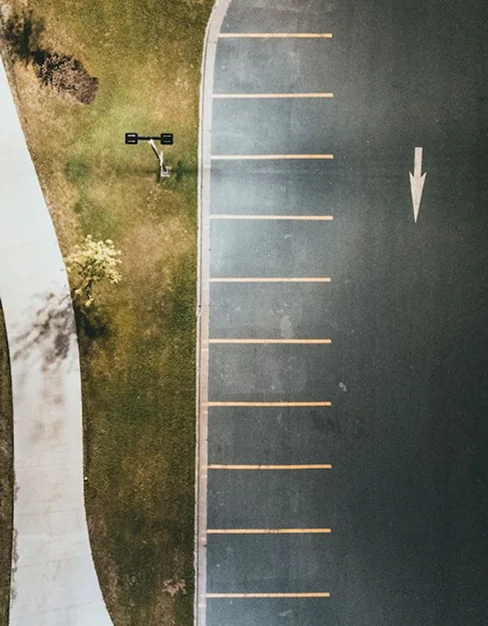
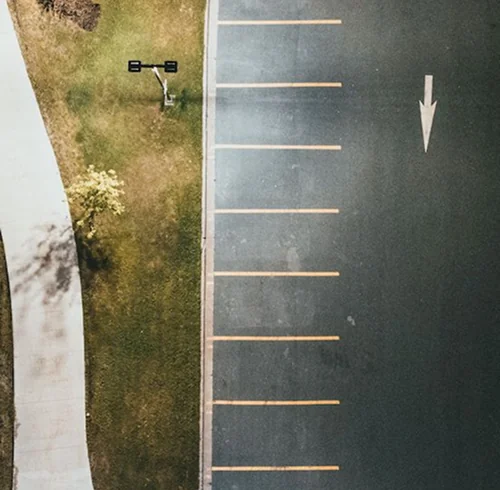
Blog thumbs

diff --git a/src/components/utils/blog-list-item/BlogListItem.scss b/src/components/utils/blog-list-item/BlogListItem.scss
@@ -25,7 +25,7 @@
         }
 
         .bg {
-            transform: scale(0.95);
+            transform: scale(0.952);
             opacity: 1;
 
             img {
@@ -76,6 +76,7 @@
 }
 
 .bg {
+    height: calc(100% - 140px);
     opacity: 0.6;
 
     @include t.tx((transform, opacity));
@@ -99,6 +100,20 @@
     padding: v.space('md') v.space('sm');
 
     @include t.tx((transform));
+
+    @include mix.respond(lg) {
+        min-height: 240px;
+    }
+    @include mix.respond(md) {
+        min-height: 200px;
+    }
+    @include mix.respond(xs) {
+        min-height: 180px;
+    }
+
+    @include mix.respond(xxs) {
+        padding: calc(v.space('sm') + v.space('xs')) v.space('sm');
+    }
 }
 
 .backdrop {
@@ -111,8 +126,4 @@
 
 .title {
     @include t.tx((color));
-}
-
-.excerpt {
-    padding-top: v.space('sm');
 }
